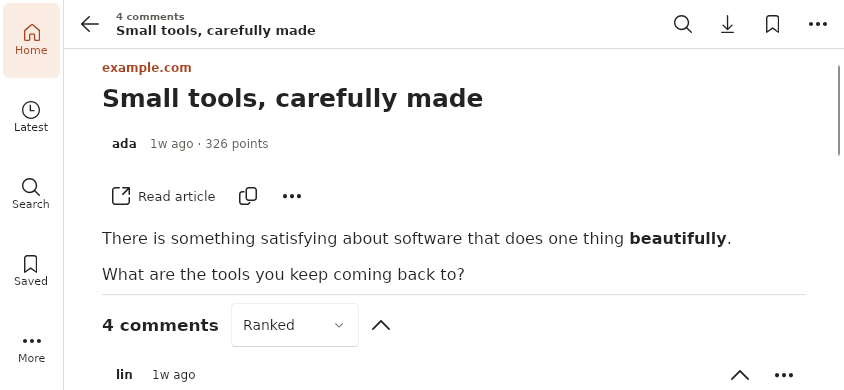
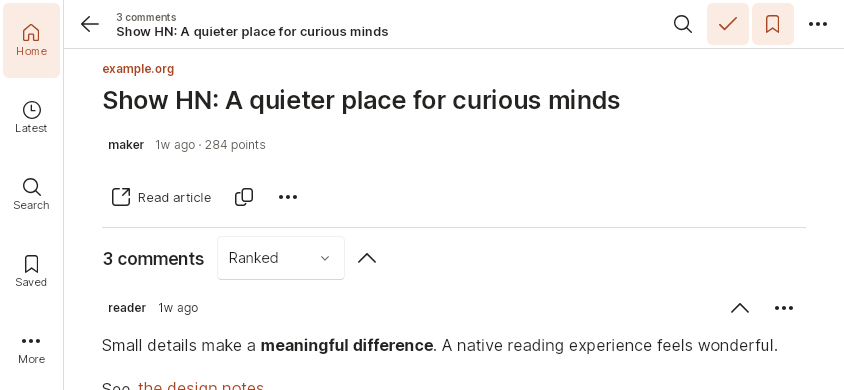
Refresh the mobile gallery from release Chromium in portrait and landscape

diff --git a/docs/ember.md b/docs/ember.md
@@ -12,7 +12,7 @@ together. A compact window presents one pane at a time with bottom navigation.
 
 ## Rendered screens
 
-All previews use deterministic Hacker News data. Chromium captured the release WebAssembly discussion, Downloaded shelf, text presets and domain mute editor. The native test host rendered the other views with Skia and HarfBuzz.
+All previews use deterministic Hacker News data. Chromium captured the release WebAssembly reader in landscape, the phone discussion, the Downloaded shelf, the permalink search action, text presets and the domain mute editor. The native test host rendered the other views with Skia and HarfBuzz.
 
 ![Ember in the light desktop theme](images/ember-desktop-light.png)
 
@@ -20,7 +20,7 @@ All previews use deterministic Hacker News data. Chromium captured the release W
 | --- | --- |
 | Reading | [Reading desk](images/ember-tablet-reading-desk.png) · [Dark desktop](images/ember-desktop-dark.png) · [Phone feed](images/ember-phone-dark.png) · [Landscape reader](images/ember-landscape-reader.png) · [Custom tablet theme](images/ember-tablet-custom.png) |
 | Discussions | [Phone discussion](images/ember-phone-comments.png) · [Focus reading with Find](images/ember-focus-find.png) · [New replies](images/ember-new-replies.png) |
-| Discovery and library | [Author profile](images/ember-desktop-profile.png) · [Explore on a phone](images/ember-phone-explore.png) · [Downloaded shelf](images/ember-phone-downloaded.png) · [Find in a collection](images/ember-library-find.png) |
+| Discovery and library | [Open a permalink](images/ember-open-link.png) · [Author profile](images/ember-desktop-profile.png) · [Explore on a phone](images/ember-phone-explore.png) · [Downloaded shelf](images/ember-phone-downloaded.png) · [Find in a collection](images/ember-library-find.png) |
 | Preferences | [Custom appearance](images/ember-tablet-settings.png) · [Text presets](images/ember-text-presets.png) · [Domain mute on a phone](images/ember-domain-mute.png) |
 
 The focus view keeps the discussion in a centered column as the window grows. The toolbar retains the story title while you read replies.
